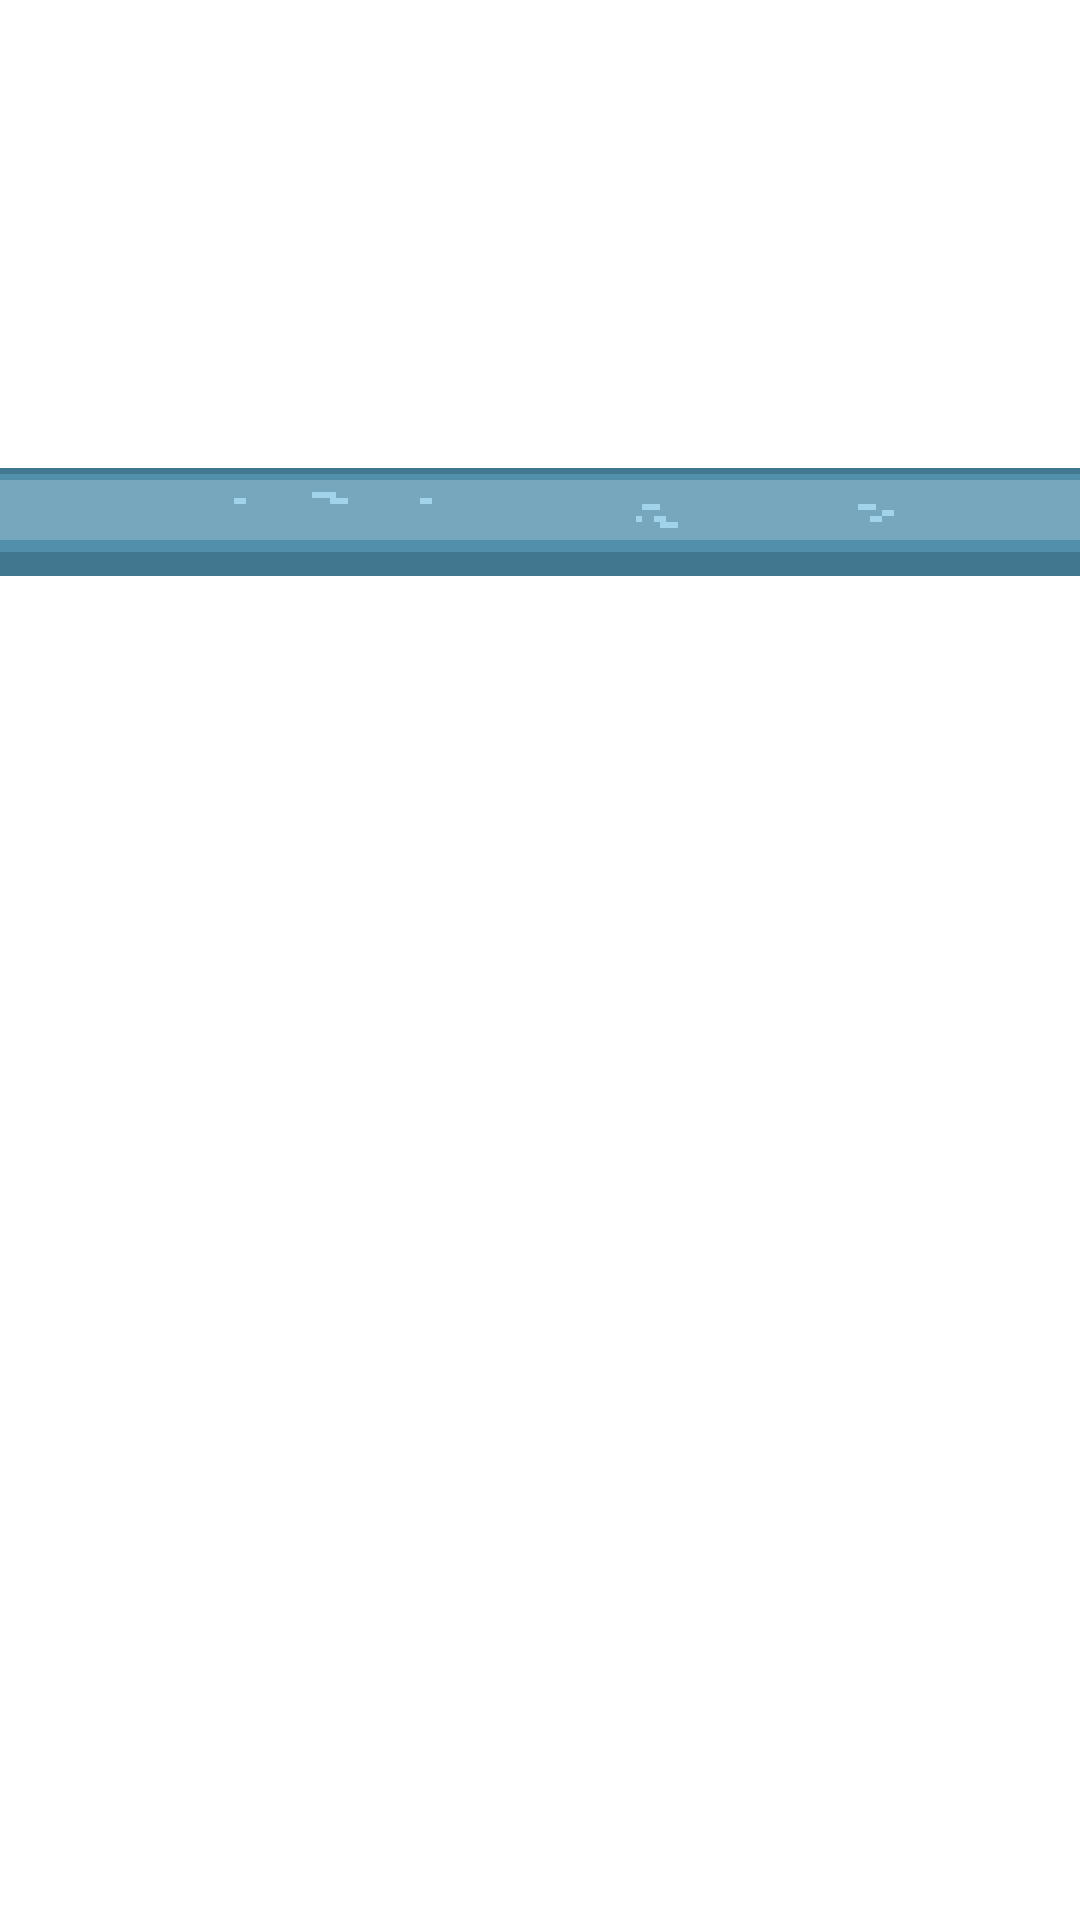
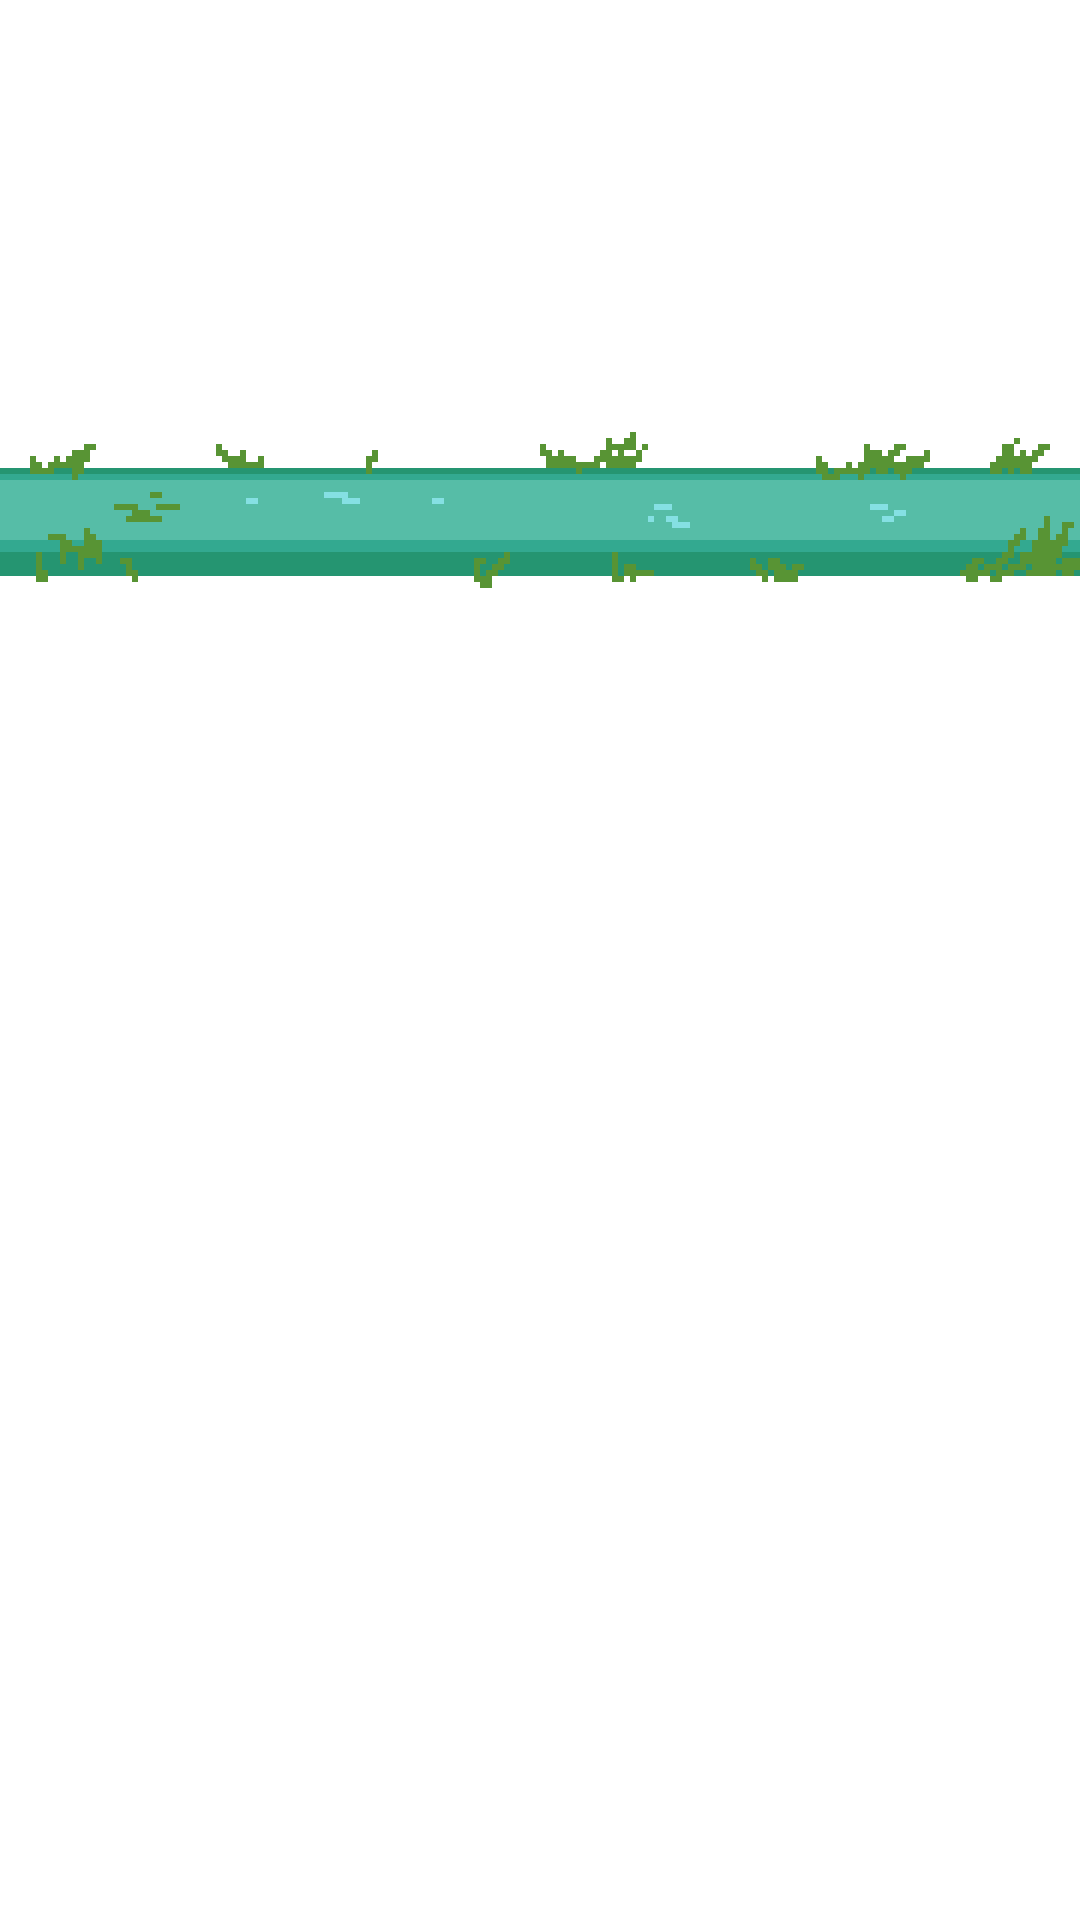
Added getRiver() to set the river texture Added riverQuality() to measure what river texture to use Fixed typo in MAX_N_PER_FIELD variable and it's references. Added buySellBackground.png version with visuals for selling gas. Added RectangleSellPotato and moved RectangleSellGas accordingly. Updated 

Changed region(s): [[0.0, 0.2188, 1.0, 0.3125]]

diff --git a/core/src/fi/tuni/tiko/FieldScreen.java b/core/src/fi/tuni/tiko/FieldScreen.java
@@ -40,8 +40,8 @@ public class FieldScreen extends Location implements Screen {
         growth4 = new Texture("growth/growth4.png");
         growth5 = new Texture("growth/growth5.png");
         river1 = new Texture("props/river1.png");
-        river2 = new Texture("props/river1.png");
-        river3 = new Texture("props/river1.png");
+        river2 = new Texture("props/river2.png");
+        river3 = new Texture("props/river3.png");
         cloud1 = new Texture("props/cloud1.png");
         riverX1 = 0f;
         riverX2 = -8f;
@@ -88,6 +88,42 @@ public class FieldScreen extends Location implements Screen {
         cloudX1 = cloudX1 + cloudSpeed * Gdx.graphics.getDeltaTime();
         if (cloudX1 > 9.5f) {cloudX1 = -4.2f;}
         batch.draw(cloud1, cloudX1,13.9f, 37f / 9f, 16f / 9f);
+    }
+
+    private Texture getRiver() {
+        if (riverQuality() == 0) {
+            return river1;
+        } else if (riverQuality() == 1) {
+            return river2;
+        } else if (riverQuality() == 2) {
+            return river3;
+        } else {
+            return river1;
+        }
+    }
+
+    /**
+     * if both numbers are under soft cap return 0
+     * if both are over soft cap return 2
+     * if one is over soft cap return 1
+     */
+    private int riverQuality() {
+        int riverQuality = 0;
+        int placeholderP = 0;
+        int placeholderN = 0;
+        if (placeholderP < game.gameData.getMAX_P_PER_FIELD()
+                && placeholderN < game.gameData.getMAX_N_PER_FIELD()) {
+            riverQuality = 0;
+        } else if (placeholderP >= game.gameData.getMAX_P_PER_FIELD()
+                && placeholderN >= game.gameData.getMAX_N_PER_FIELD()) {
+            riverQuality = 2;
+        } else if (placeholderP >= game.gameData.getMAX_P_PER_FIELD()
+                || placeholderN >= game.gameData.getMAX_N_PER_FIELD()) {
+            riverQuality = 1;
+        }
+
+        return riverQuality;
+
     }
 
     private void checkActionRectangles() {
@@ -174,7 +210,7 @@ public class FieldScreen extends Location implements Screen {
             float reportedN = (float)field.getFertilizerN() * (float)Math.random() * 0.3f + 0.9f;
             float reportedP = (float)field.getFertilizerP() * (float)Math.random() * 0.3f + 0.9f;
             text = text + game.myBundle.format("fieldNP",
-                    (int)reportedN, game.gameData.MAX_N_NER_FIELD,
+                    (int)reportedN, game.gameData.MAX_N_PER_FIELD,
                     (int)reportedP, game.gameData.MAX_P_PER_FIELD);
         }
         return text;
@@ -188,12 +224,12 @@ public class FieldScreen extends Location implements Screen {
         riverX1 = riverX1 + riverSpeed * Gdx.graphics.getDeltaTime();
         riverX2 = riverX2 + riverSpeed * Gdx.graphics.getDeltaTime();
         riverX3 = riverX3 + riverSpeed * Gdx.graphics.getDeltaTime();
-        if (riverX1 > 10) {riverX1 = -8f;}
-        if (riverX2 > 10) {riverX2 = -8f;}
-        if (riverX3 > 10) {riverX3 = -8f;}
-        batch.draw(river1, riverX1,0, WORLD_WIDTH, WORLD_HEIGHT);
-        batch.draw(river2, riverX2,0, WORLD_WIDTH, WORLD_HEIGHT);
-        batch.draw(river3, riverX3,0, WORLD_WIDTH, WORLD_HEIGHT);
+        if (riverX1 > 9.01) {riverX1 = -8.99f;}
+        if (riverX2 > 9.01) {riverX2 = -8.99f;}
+        if (riverX3 > 9.01) {riverX3 = -8.99f;}
+        batch.draw(getRiver(), riverX1,0, WORLD_WIDTH, WORLD_HEIGHT);
+        batch.draw(getRiver(), riverX2,0, WORLD_WIDTH, WORLD_HEIGHT);
+        batch.draw(getRiver(), riverX3,0, WORLD_WIDTH, WORLD_HEIGHT);
     }
 
     private void drawFields() {
@@ -293,7 +329,7 @@ public class FieldScreen extends Location implements Screen {
     public void actionFertilizeFieldN(int number) {
         ArrayList<Field> tmpFields = game.gameData.getFields();
         Field field = tmpFields.get(number);
-        int amount = game.gameData.MAX_N_NER_FIELD / 2;
+        int amount = game.gameData.MAX_N_PER_FIELD / 2;
         field.setFertilizerN(field.getFertilizerN() + amount);
         tmpFields.set(number, field);
         game.gameData.setFields(tmpFields);

diff --git a/core/src/fi/tuni/tiko/GameData.java b/core/src/fi/tuni/tiko/GameData.java
@@ -65,7 +65,7 @@ public class GameData {
     final int MAX_COWS = 6;         // maximum number of cows
     final int MANURE_SHOVELED = 100;// how much manure removed from barn in single remove action
     final int MAX_P_PER_FIELD = 13; // max phosphorous per field before penalty
-    final int MAX_N_NER_FIELD = 80; // max nitrogen per field before penalty
+    final int MAX_N_PER_FIELD = 80; // max nitrogen per field before penalty
     final int N_FERTILIZE = 35;
     final int P_FERTILIZE = 6;
     final int MANURE_DANGER = 200;  // when amount of manure will affect milk production.
@@ -718,8 +718,8 @@ public class GameData {
         return MAX_P_PER_FIELD;
     }
 
-    public int getMAX_N_NER_FIELD() {
-        return MAX_N_NER_FIELD;
+    public int getMAX_N_PER_FIELD() {
+        return MAX_N_PER_FIELD;
     }
 
     public int getMANURE_DANGER() {
